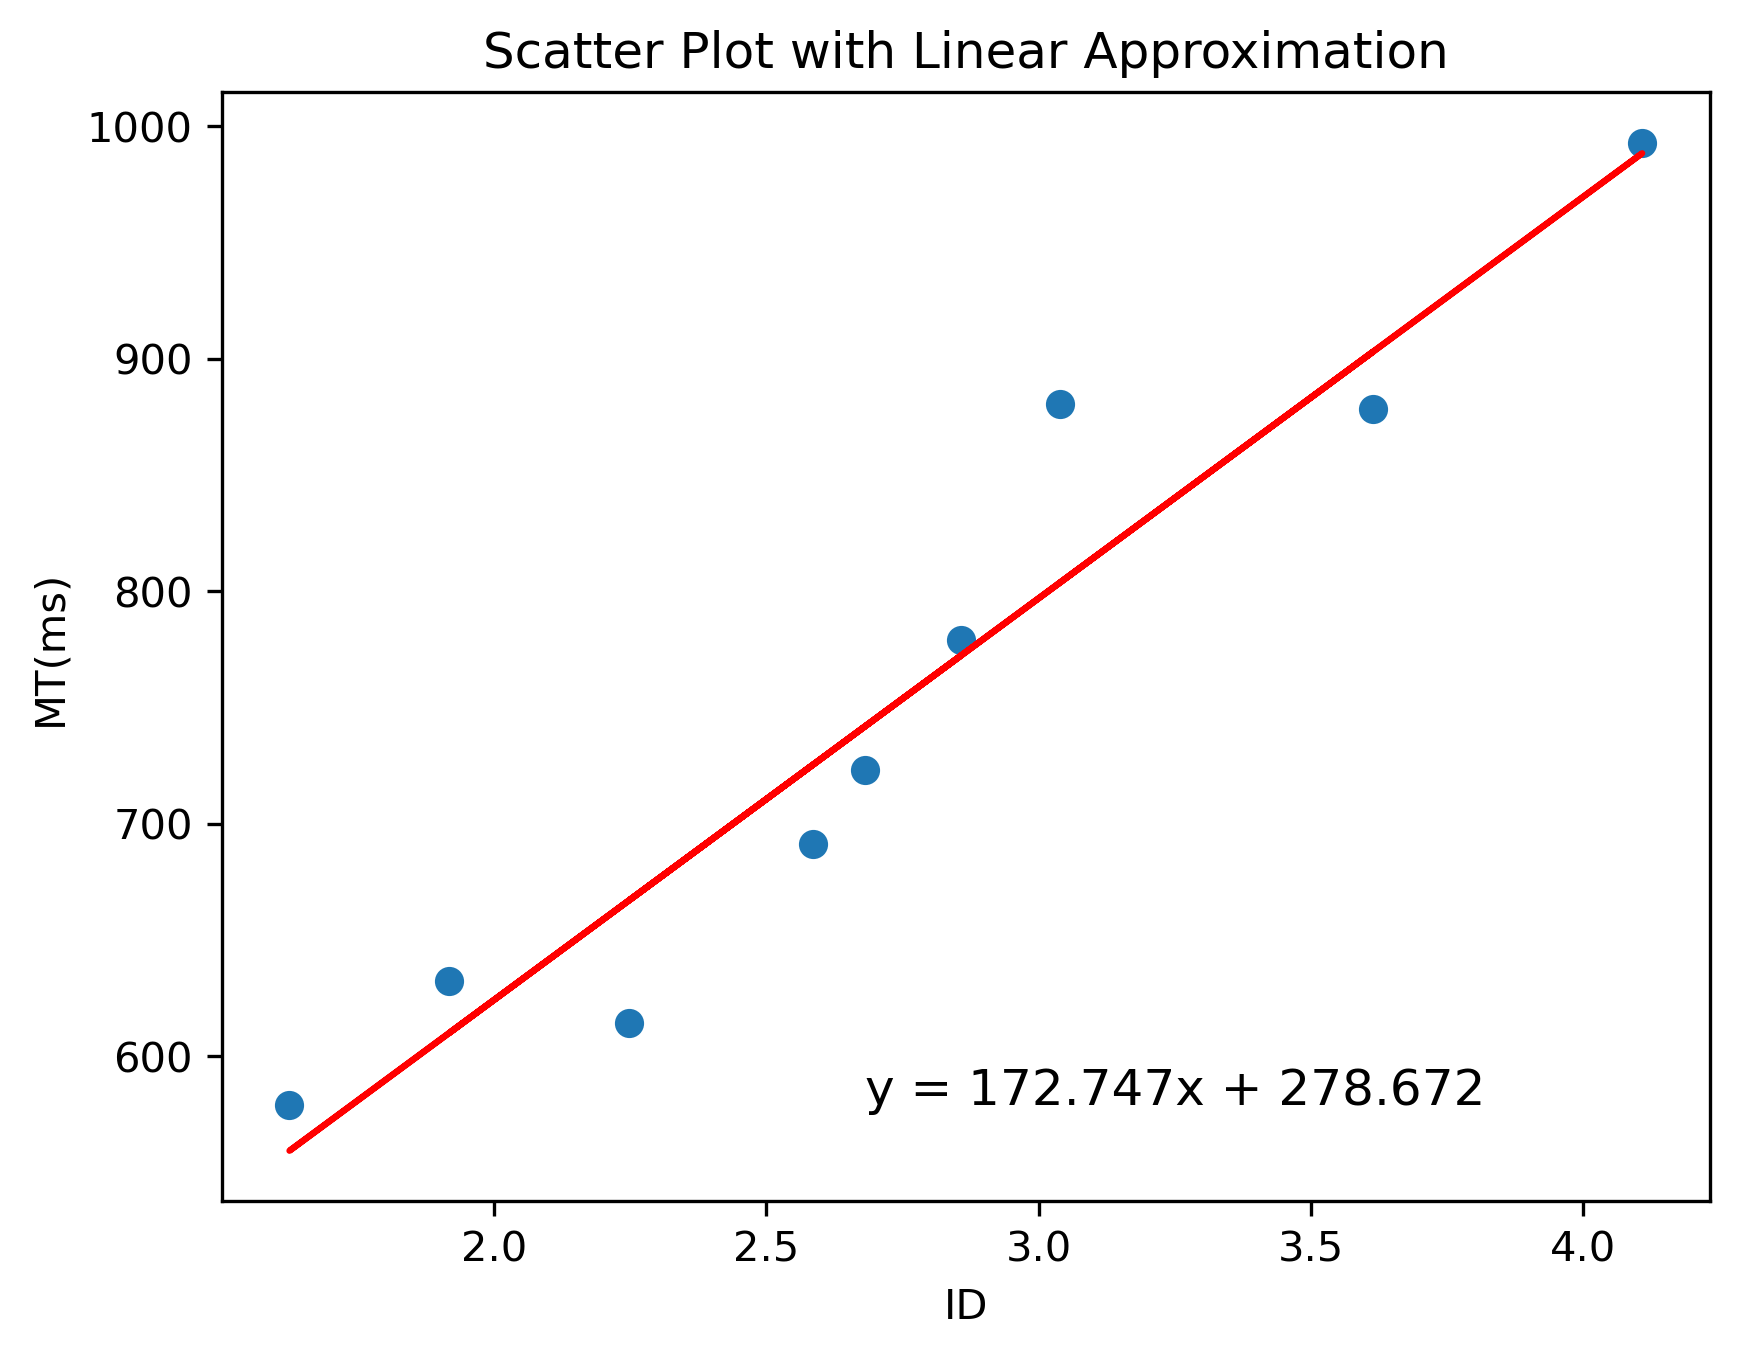
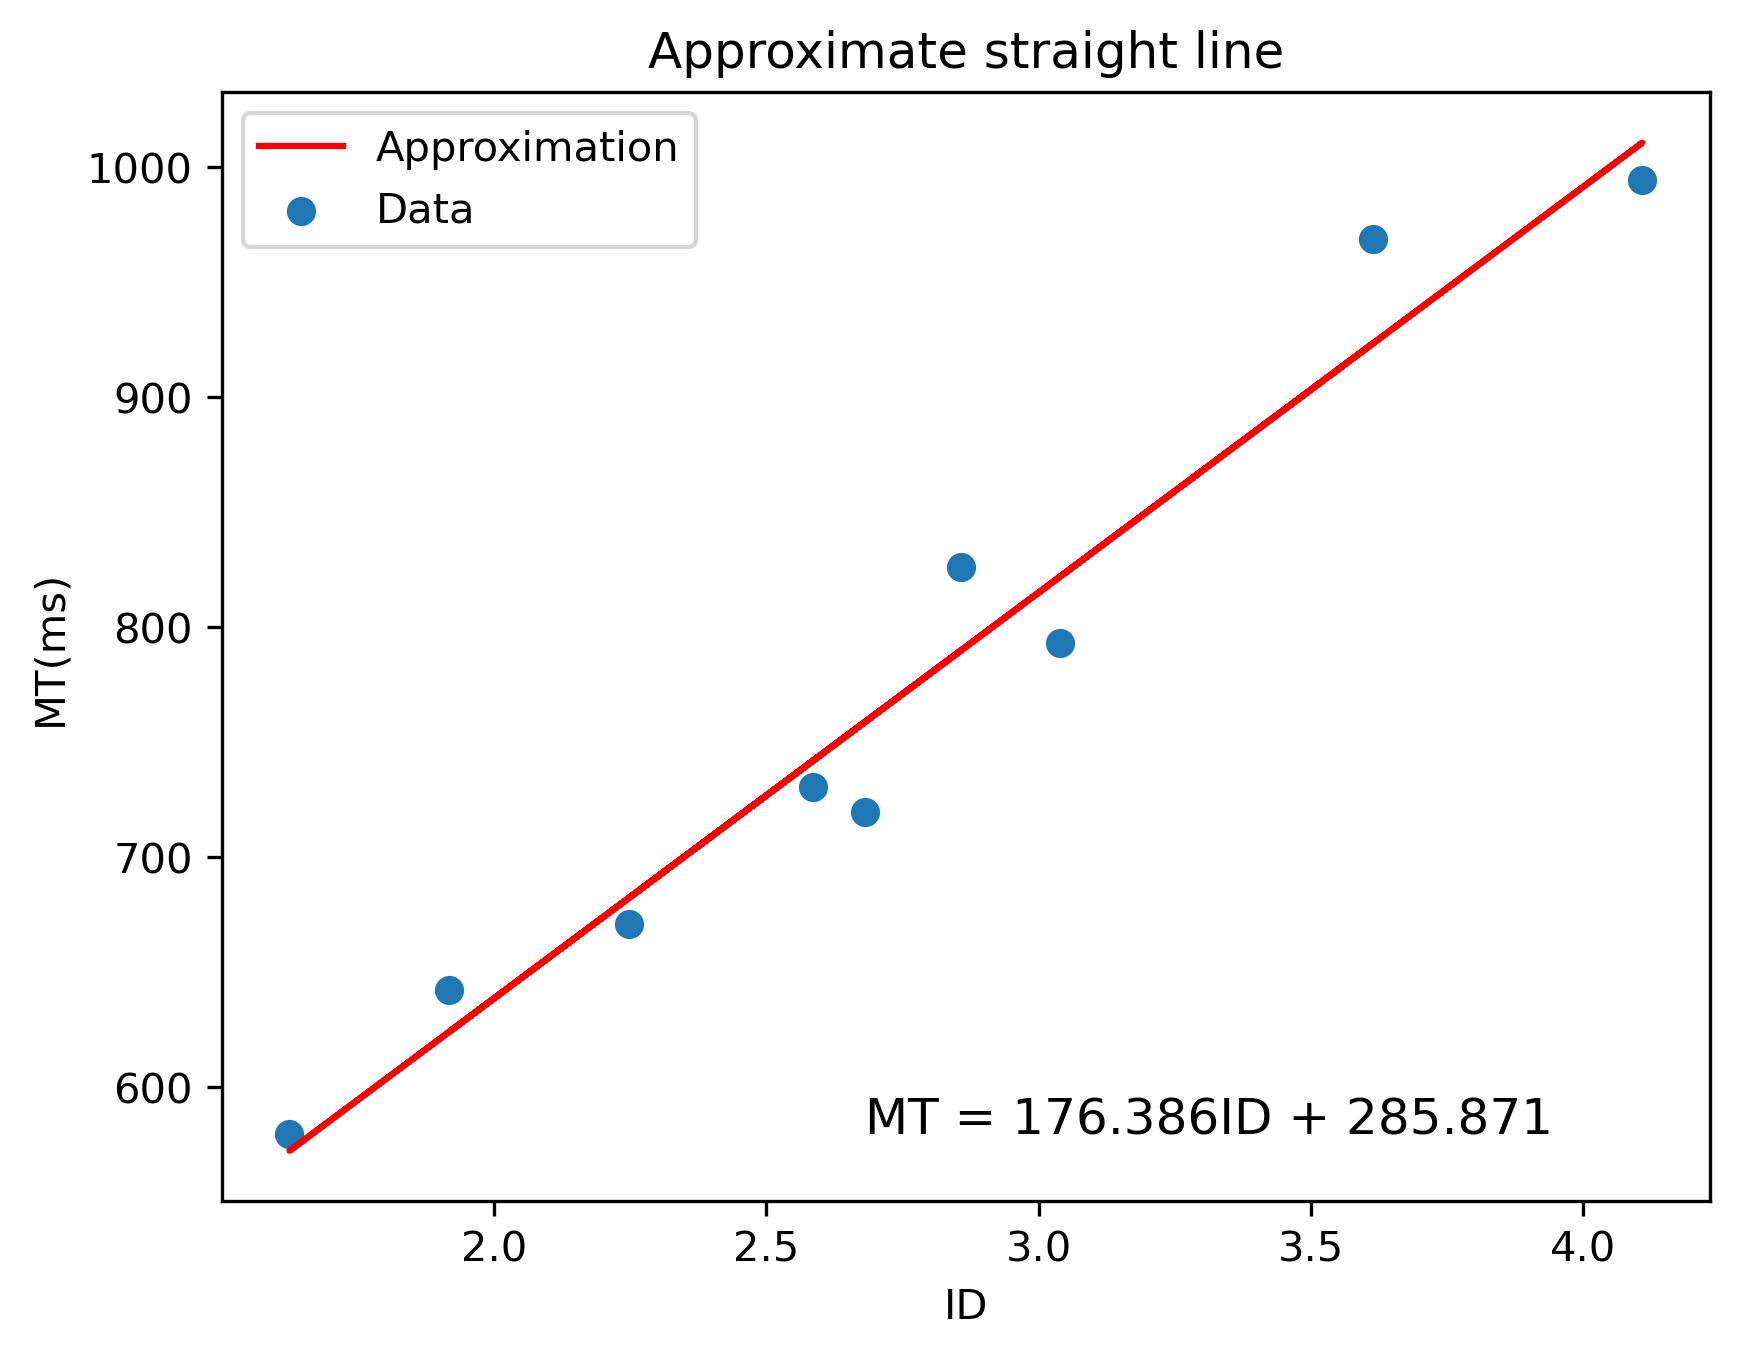
update

diff --git a/fitts/approximation.py b/fitts/approximation.py
@@ -1,8 +1,11 @@
+# 散布図と近似曲線を表示させる。
+# 結果を aprroximation.png として保存する。
+
+
 import numpy as np
 import matplotlib.pyplot as plt
 import csv
 
-# データ
 f = open('fitts/result.csv', encoding='utf-8')
 result = csv.reader(f)
 next(result)
@@ -13,25 +16,22 @@ for row in result:
     MT.append(row[1])
     ID.append(row[2])
 
-
-# データをNumPy配列に変換
 x_data = np.array(ID, dtype=float)
 y_data = np.array(MT, dtype=float)
-
-# 近似直線のパラメータを計算
 a, b = np.polyfit(x_data, y_data, 1)
 
 plt.scatter(x_data, y_data, label='Data')
 plt.plot(x_data, a * x_data + b, color='red', label='Approximation')
 plt.xlabel('ID')
 plt.ylabel('MT(ms)')
-plt.title('Scatter Plot with Linear Approximation')
+plt.title('Approximate straight line')
 
 # 近似直線の方程式
-equation = f"y = {a:.3f}x + {b:.3f}"
+equation = f"MT = {a:.3f}ID + {b:.3f}"
 plt.text(np.median(x_data), np.min(y_data), equation, fontsize=12, color='black')
-
+plt.legend()
 
 plt.savefig('fitts/approximation.png', dpi=300, bbox_inches='tight')
-plt.legend()
 plt.show()
+
+f.close()

diff --git a/calculator/calculator_fitts.py b/calculator/calculator_fitts.py
@@ -1,0 +1,43 @@
+# 各ボタン間の平均距離、IDを計算する。
+# 実移動距離を計算する。
+# 実入力時間を計算する。
+
+import csv
+import math
+
+f = open('calculator/buttons.csv', 'r', encoding='utf-8')
+buttons = csv.reader(f)
+header = next(buttons)
+width = int(header[1])
+next(buttons)
+N = 17
+pair = {}
+list = []
+
+for row in buttons:
+    list.append(row)
+
+for i in range(N):
+    distance_box = []
+    for j in range(N):
+        if i != j:
+            tmp1 = (int(list[i][1]) - int(list[j][1]))**2
+            tmp2 = (int(list[i][2]) - int(list[j][2]))**2
+            tmp3 = math.sqrt(tmp1 + tmp2)
+            distance_box.append(tmp3)
+    n = len(distance_box)
+    d = 0
+    for dis in distance_box:
+        d += dis
+    distance = d/n
+    pair[list[i][0]] = 0
+    pair[list[i][0]] = distance
+
+total = sum(pair.values())
+ave = total/len(pair)
+ID = round(math.log2((ave/width) + 1), 3)
+
+
+print('Calculator_ID:', ID)
+
+f.close()

diff --git a/fitts/scatter.py b/fitts/scatter.py
@@ -1,3 +1,7 @@
+# 散布図を表示させる。
+# 結果を scatter.png として保存。
+
+
 import csv
 import matplotlib.pyplot as plt
 
@@ -27,7 +31,7 @@ plt.subplots_adjust(bottom=0.15, left=0.15)
 
 
 # 散布図をpngで保存
-plt.savefig('./fitts/scatter_plot.png')
+plt.savefig('./fitts/scatter.png')
 
 f.close()
 plt.show()
